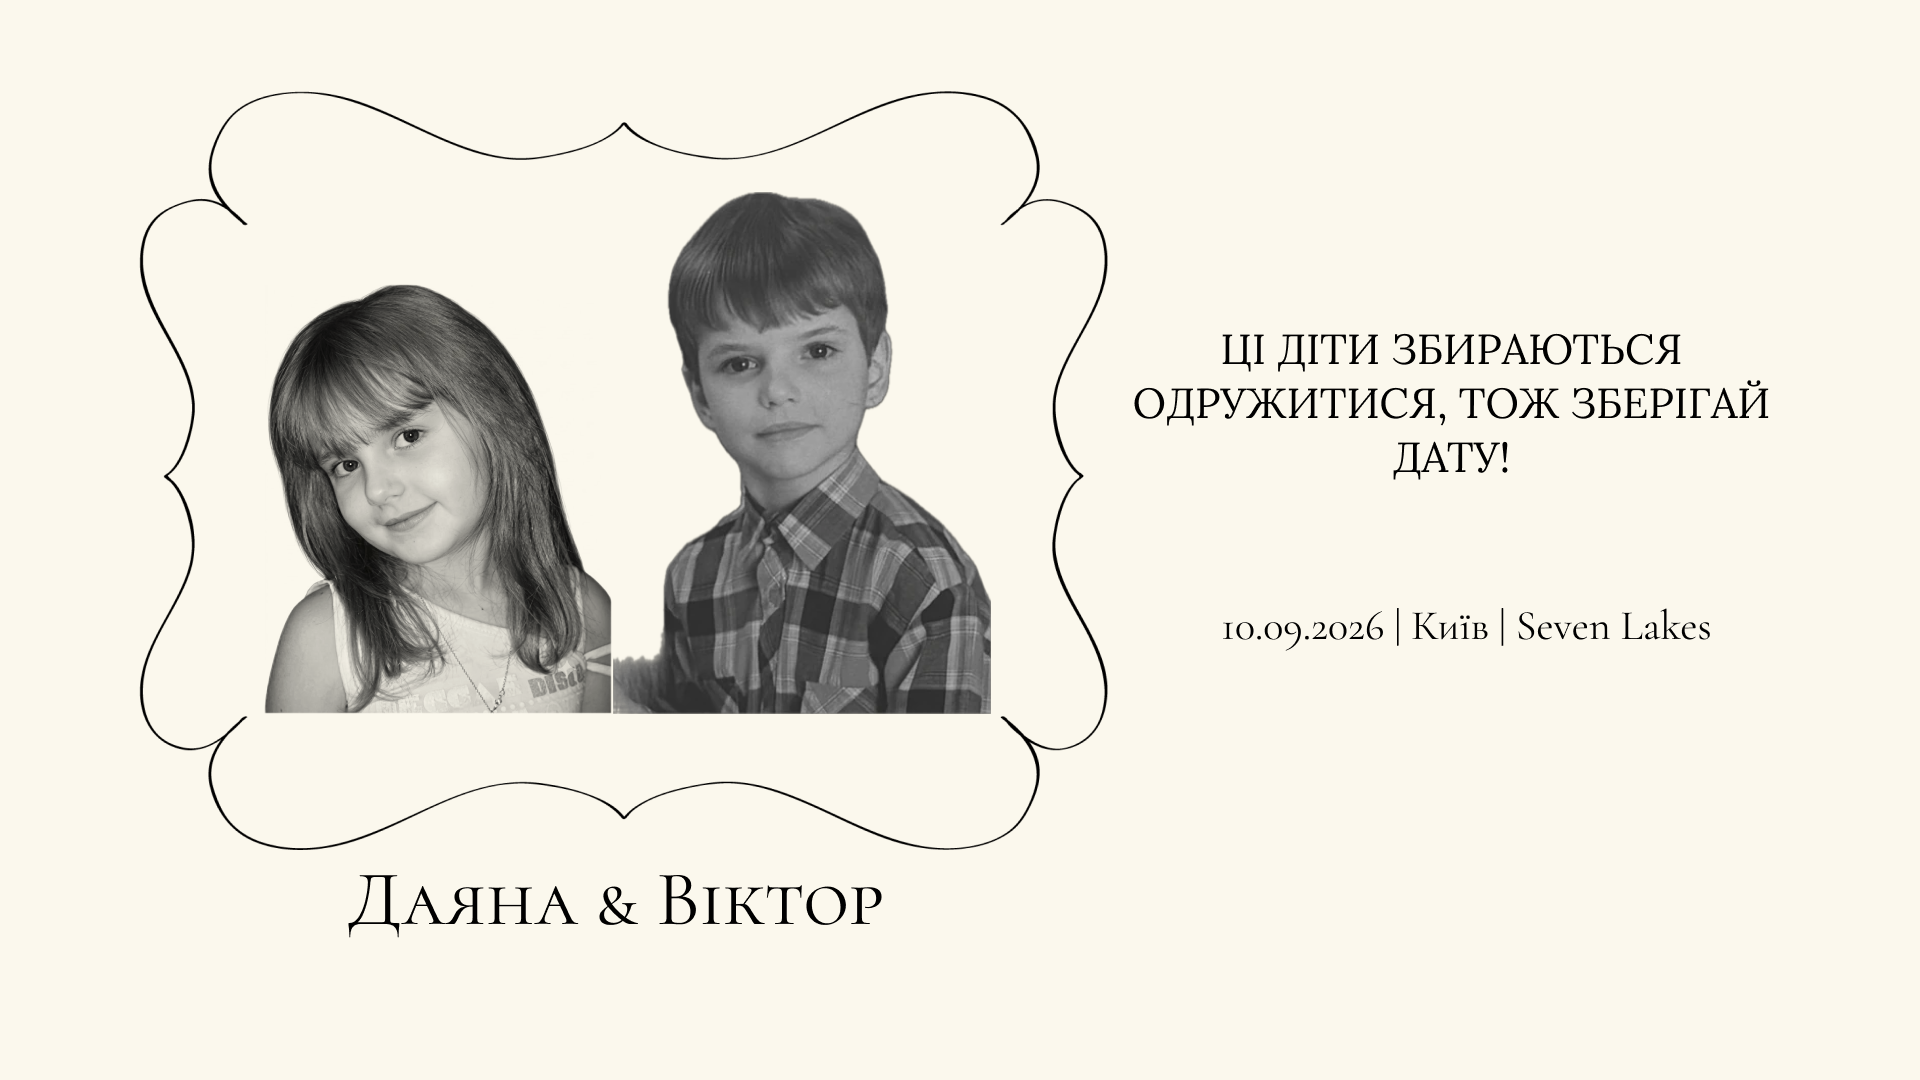
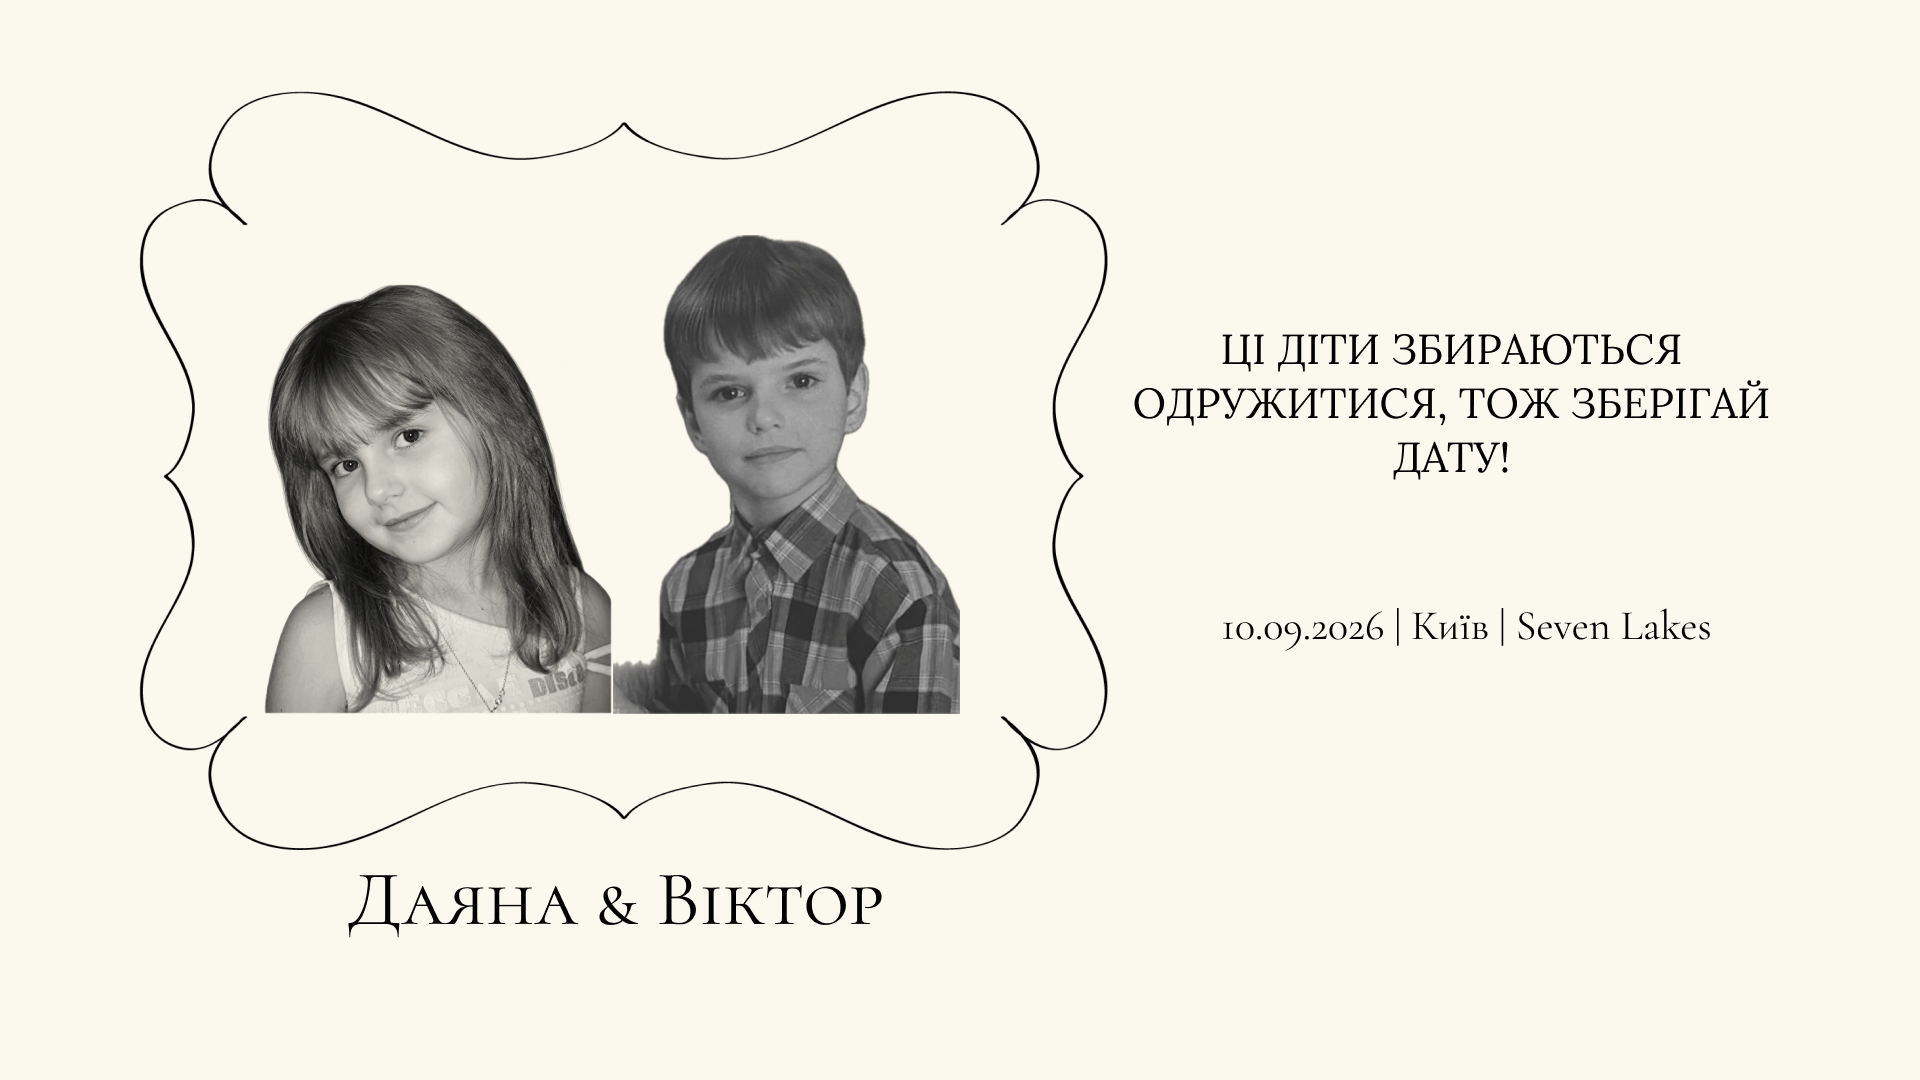
add links for plase

Changed region(s): [[0.3125, 0.1528, 0.5312, 0.6722]]

diff --git a/index.html b/index.html
@@ -71,7 +71,13 @@
               <span class="btn-text-small">Інші деталі, щодо точного часу, дрескоду тощо – зʼявляться тут згодом. На звʼязочку!</span>
             </div>
             <div class="container">
-              <span class="btn-text-small">10.09.2026 · Seven Lakes · Київ</span>
+              <a href="https://www.google.com/maps/place/Seven+Lakes/@50.3486316,30.5950326,12.67z/data=!4m9!3m8!1s0x40d4c141fbf00b6b:0xb973b7d01095eca1!5m2!4m1!1i2!8m2!3d50.3303926!4d30.6401398!16s%2Fg%2F11vhrrv2rc?entry=ttu&g_ep=EgoyMDI2MDYwOS4wIKXMDSoASAFQAw%3D%3D"
+                 target="_blank"
+                 rel="noopener noreferrer"
+                 style="text-decoration: none;">
+                <span class="hero-btn btn-text-small">10.09.2026 · Seven Lakes · Київ</span>
+              </a>
+
             </div>
           </section>
         </div>
